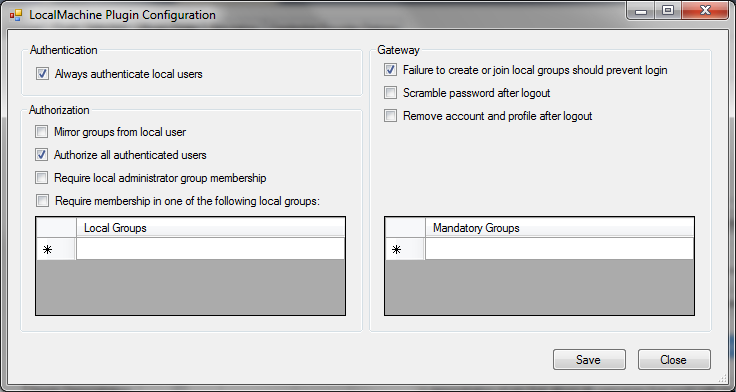
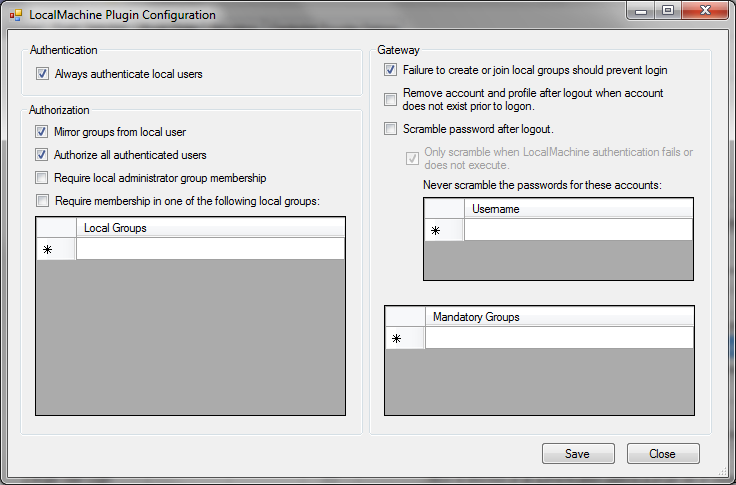
Update local machine docs.

diff --git a/v3.1/local_machine.md b/v3.1/local_machine.md
@@ -9,7 +9,7 @@ pGina Local Machine Plugin Documentation
 
 * **Plugin Name:** Local Machine
 * **Plugin Type:** Authentication, Authorization, Gateway
-* **Latest Version:** 3.0.1.0
+* **Latest Version:** 3.1.0.0
 
 How it Works
 --------------------
@@ -140,10 +140,19 @@ Configuration
 
 ![LocalMachine Plugin Configuration](images/local_machine_config.png)
 
+<h3>Authentication</h3>
+
 * **Always authenticate local users** -- When this is checked, the plugin will always
-attempt to authenticate the user against a local account.  If this is not checked, 
-the plugin will only attempt to authenticate when the user has not already been
-authenticated by a plugin that has executed earlier within the authentication stage.
+    attempt to authenticate the user against a local account.  If this is not checked, 
+    the plugin will only attempt to authenticate when the user has not already been
+    authenticated by a plugin that has executed earlier within the authentication stage.
+
+    Note that this plugin will copy the groups of the local account into the internal
+    list of groups (see above) only when 
+    authentication is successful (or configured to do so in the authorization stage).
+
+<h3>Authorization</h3>
+
 * **Mirror groups from local user** -- Load all groups from the local account into
 the pGina user information store so that the LocalMachine's Gateway stage 
 (and other subsequent plugins) will see that the 
@@ -159,14 +168,25 @@ users that were authenticated successfully by this plugin.
 members of the Administrators group.
 * **Require membership in one of the following local groups** -- Only authorize users
 that are members of one of the groups listed below this checkbox.
+
+<h3>Gateway</h3>
+
 * **Failure to create or join local groups should prevent login** -- When this is 
 checked, the plugin will register failure if it is unable to create or join the
 local groups that are requested.
+* **Remove account and profile after logout when account does not exist prior to logon** -- 
+When this is selected, the plugin will attempt to remove the account and its 
+profile after logout when the account did not exist prior to logon.
 * **Scramble password after logout** -- When this is checked, the plugin will attempt
-to scramble the password of the local account after logout.  Note that it will **not** do so if
-the local account exists prior to logon.
-* **Remove account and profile after logout** -- When this is selected, the plugin
-will attempt to remove the account and its profile after logout.  Note that it will
-**not** do so if the local account exists prior to logon.
+to scramble the password of the local account after logout.  **Caution:** 
+when this option is enabled it is
+a good idea to have the below option enabled or place some exceptions in the
+list to "Never scramble."  Otherwise, you risk being locked out of your machine
+if you rely on some local accounts.
+* **Only scramble when LocalMachine authentication fails or does not execute** --
+When the "Scramble password after logout" option is enabled, this causes the
+plugin to only scramble when the LocalMachine fails to authenticate the user.
+* **Never scramble the passwords for these accounts** -- This is a list of usernames
+that will never have their passwords scrambled regardless of the above options.
 * **Mandantory groups** -- The local account is added to these local groups if not
 already a member.
